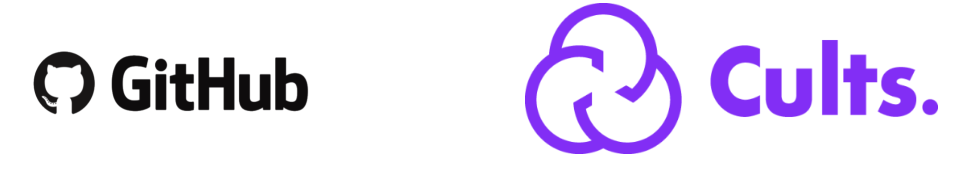
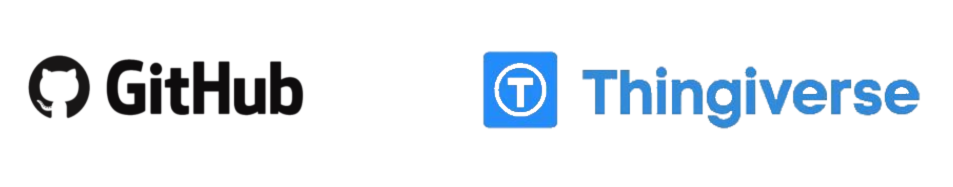
update

Changed region(s): [[0.4869, 0.0, 1.0, 0.8289], [0.0304, 0.2674, 0.3347, 0.6417]]

diff --git a/index.html b/index.html
@@ -97,7 +97,7 @@
                 <a class="github-button" href="https://github.com/integrated-circuit/AIpy/issues" data-icon="octicon-issue-opened" data-size="large" aria-label="Issue integrated-circuit/AIpy on GitHub">Issue</a>    
             </div>
             <div class="Cults" align=center style="display: inline-block">
-                <i class="fas fa-cubes fa-2x"></i><h4>Cults</h4>
+                <i class="fas fa-cubes fa-2x"></i><h4>Thingiverse</h4>
                 <h4>
                     Download the 3D models required</br>
                     for the assembly.
